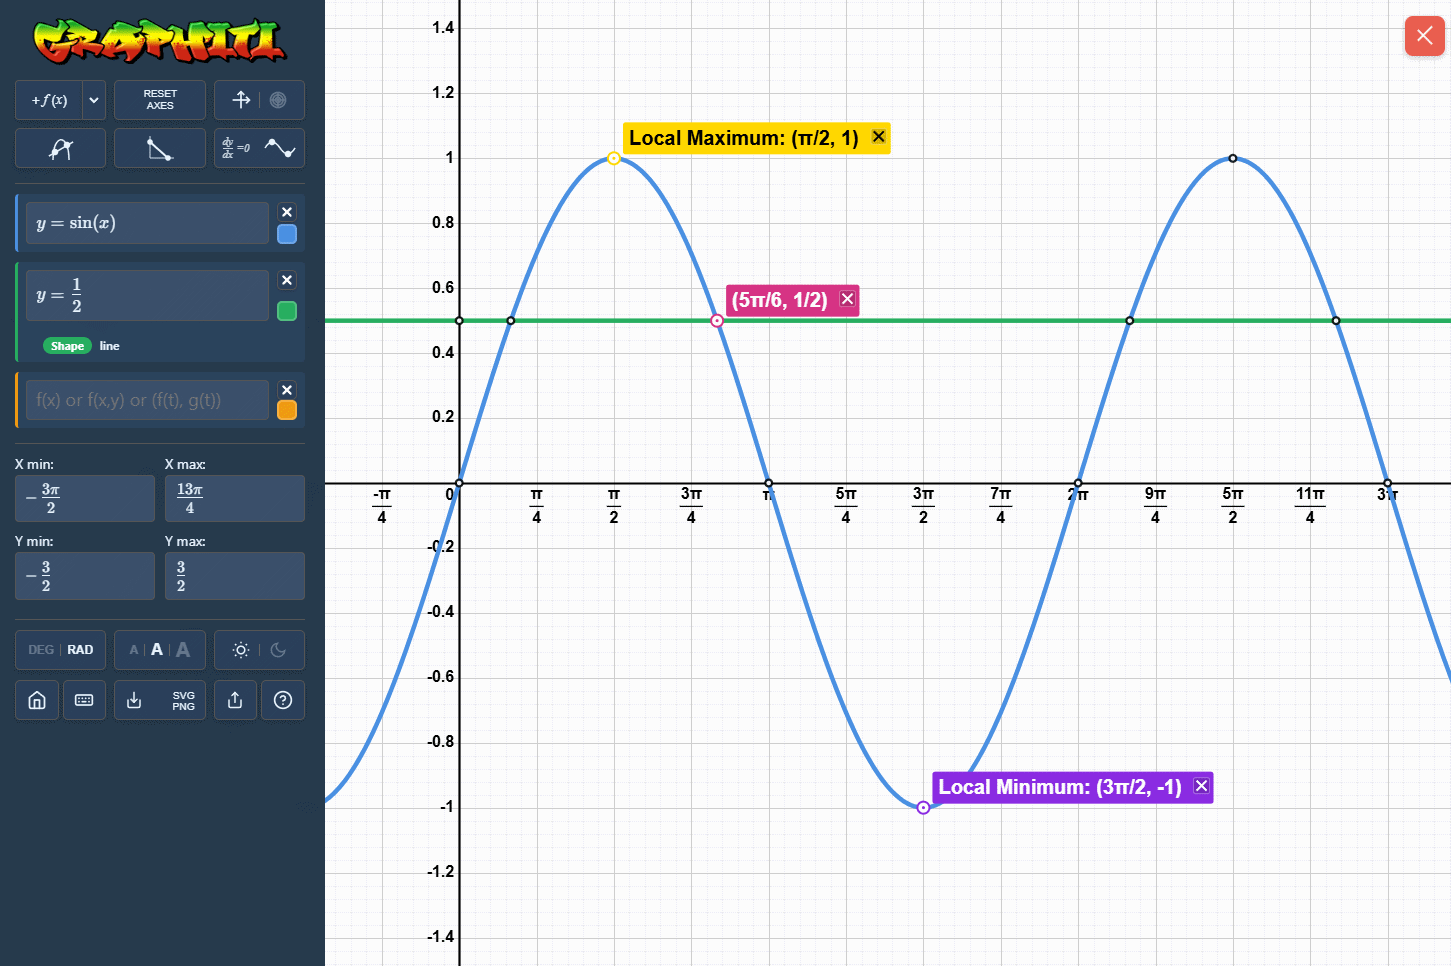
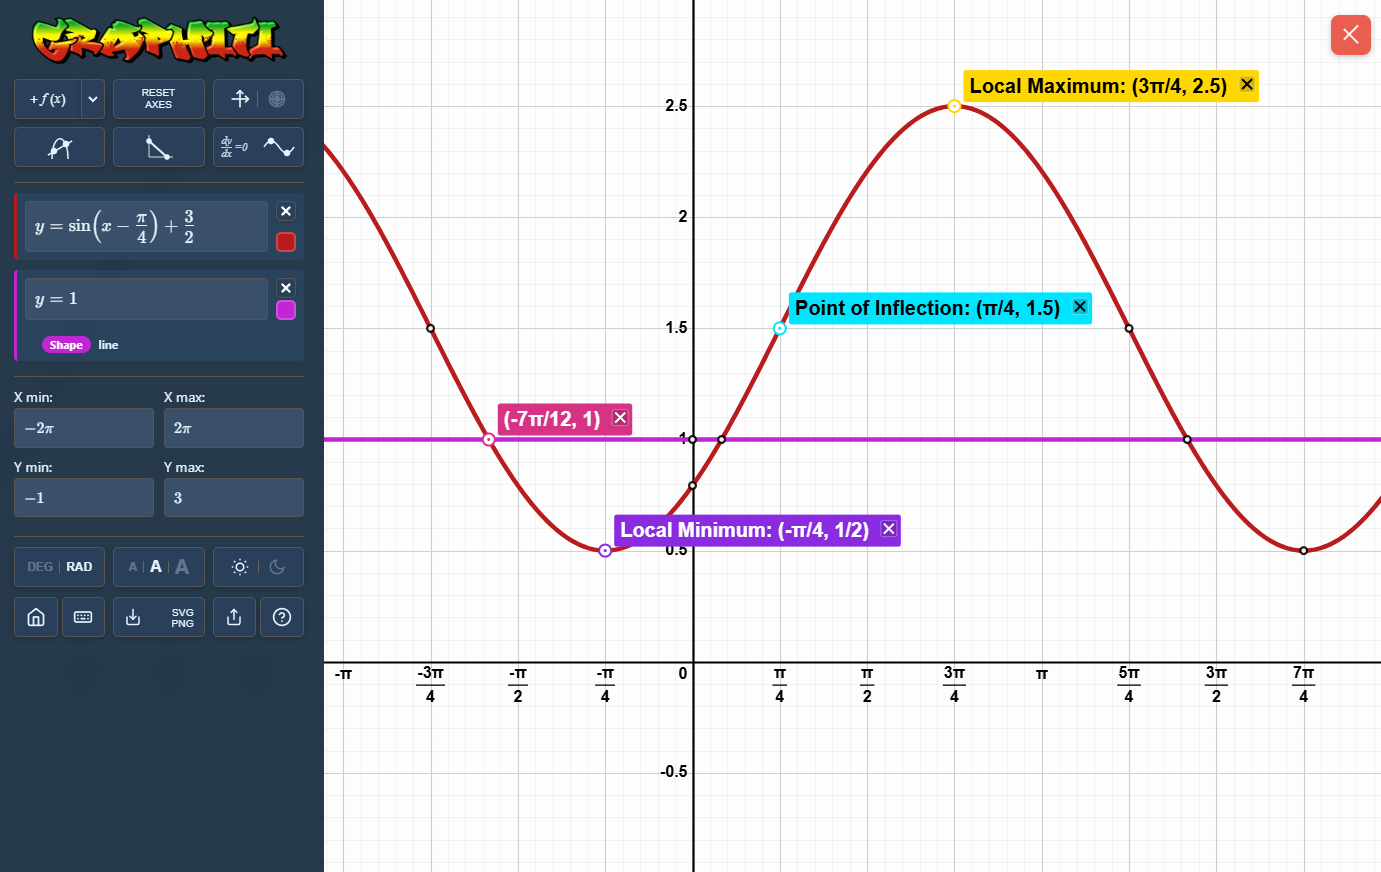
Added info about points of inflection

diff --git a/index.html b/index.html
@@ -822,7 +822,7 @@
                 title: "Graphiti",
                 image: "images/icons/graphitiIcon.png",
                 alt: "Graphiti Icon",
-                description: "More than a graphing calculator. Graphiti helps you explore, analyse and understand mathematics visually.<br><br>Automatically detect asymptotes, holes, turning points, envelopes and other key features that ordinary graphing calculators simply plot.<br><br>Investigate tangents, normals, integrals, polar graphs, implicit curves and numerical methods with instant visual feedback.<br><br>Works on desktop, tablet and mobile, with optional offline support. Share complete graph setups with a single URL.",
+                description: "More than a graphing calculator. Graphiti helps you explore, analyse and understand mathematics visually.<br><br>Automatically detect asymptotes, holes, turning points, points of inflection, envelopes and other key features that ordinary graphing calculators simply plot.<br><br>Investigate tangents, normals, integrals, polar graphs, implicit curves and numerical methods with instant visual feedback.<br><br>Works on desktop, tablet and mobile, with optional offline support. Share complete graph setups with a single URL.",
                 color: "#00ff88",
                 buttonText: "Launch",
                 buttonClass: "green",
